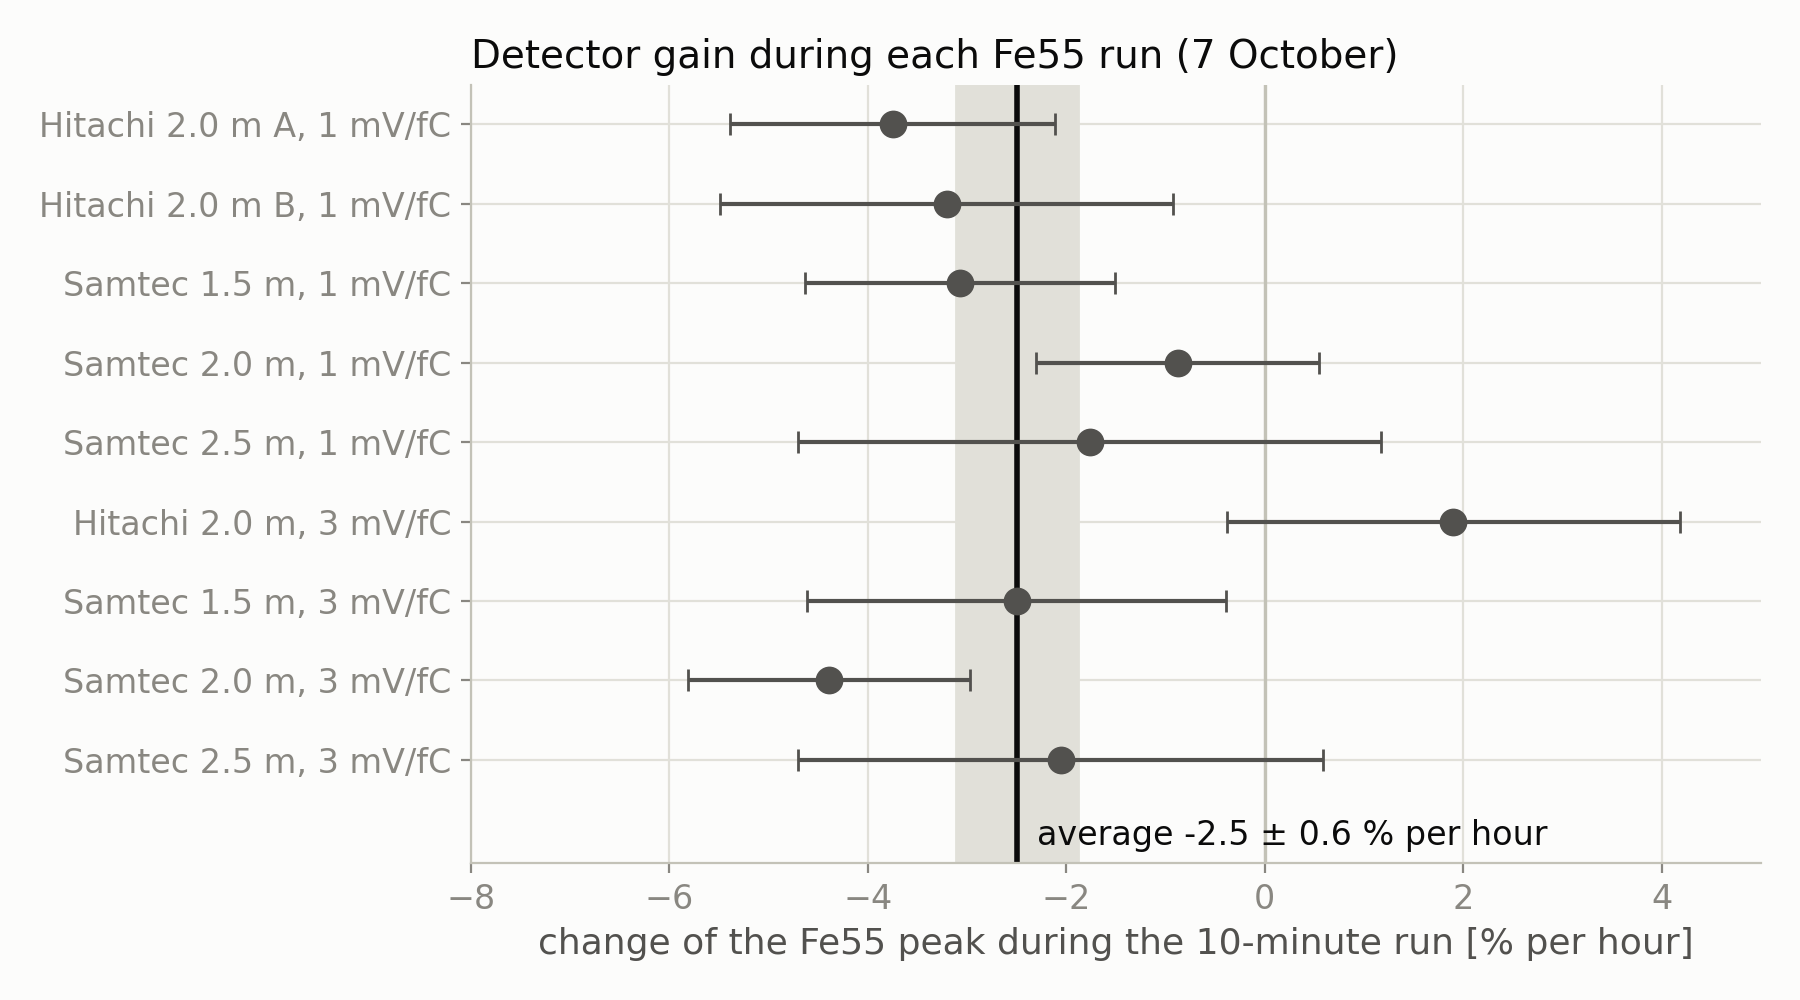
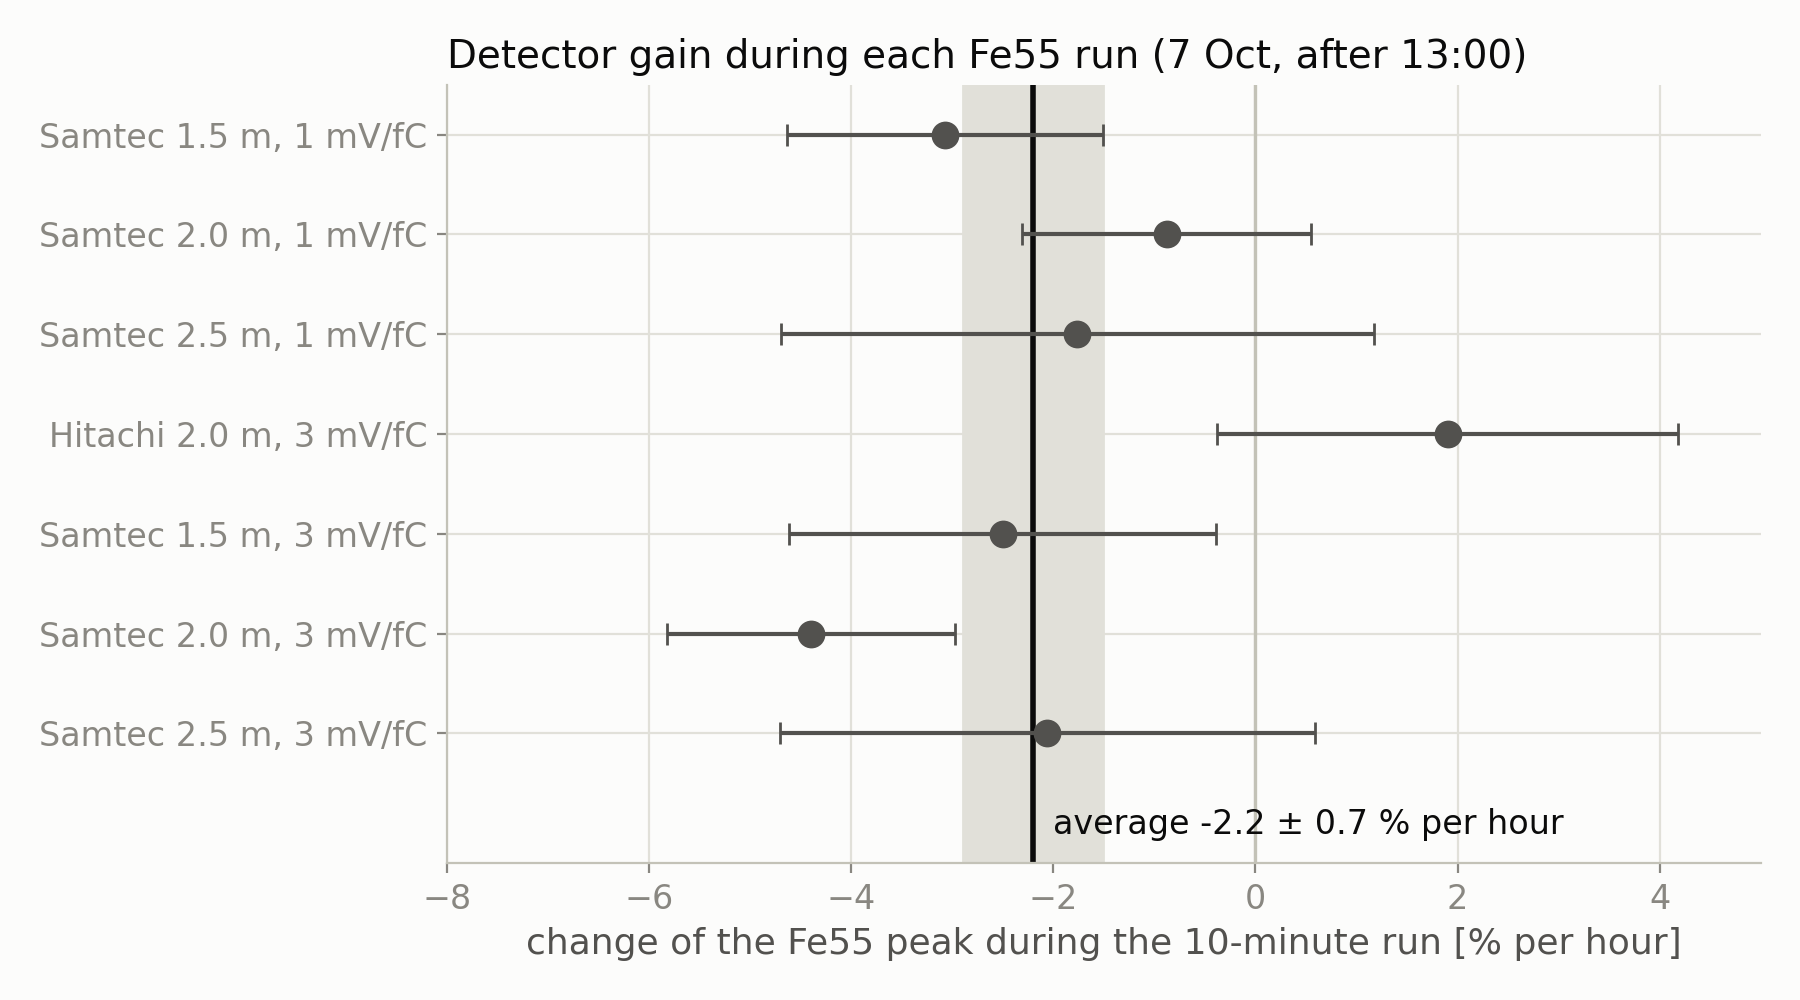
note: cable length — per-VMM Mean/RMS(ADC) and ratios (section 5c), runs after the HV-supply change only, drift −2.2 %/h

diff --git a/notes/unlisted/2026-10-07-cable-length-and-edge-channels-pulser-bench-vs-fe55.html b/notes/unlisted/2026-10-07-cable-length-and-edge-channels-pulser-bench-vs-fe55.html
@@ -52,7 +52,7 @@
         mid-connector channels (3–27, 36–60), both in photopeak (within 0.6 %) and in noise (~0.3 Hz). <strong>Why only with the external pulser:</strong> the
         neighbour-trigger hits show the external-pulser setup is 3–5× noisier than the detector at the same gain, and its edge
         channels get ~2× noisier again from 2 m on. There the noise reaches the threshold; on the detector it stays far
-        below it (section 6). A typical channel loses about 9 %/m of signal with the external pulser and 10–11 %/m with Fe55, once the
+        below it (section 6). A typical channel loses about 9 %/m of signal with the external pulser and 10–12 %/m with Fe55, once the
         Fe55 numbers are corrected for the detector gain drift measured inside each run (section 5b). The two agree:
         <strong>~10 % per metre</strong>, on every channel.</p>
       </div>
@@ -71,8 +71,8 @@
         <thead><tr><th>Total Samtec length</th><th>1.0 m</th><th>1.5 m</th><th>2.0 m</th><th>2.5 m</th><th>3.0 m*</th></tr></thead>
         <tbody>
           <tr><td>Pulser, mid-connector signal (3.3 V, /1.5 m)</td><td>1.055</td><td>1</td><td>0.951</td><td>0.910</td><td>0.864</td></tr>
-          <tr><td>Fe55, mid-connector signal (1 mV/fC, /1.5 m), gain-corrected [raw]</td><td>–</td><td>1</td><td>0.948 ± 0.007 [0.920]</td><td>0.903 ± 0.009 [0.869]</td><td>–</td></tr>
-          <tr><td>Fe55, mid-connector signal (3 mV/fC, /1.5 m), gain-corrected [raw]</td><td>–</td><td>1</td><td>0.930 ± 0.007 [0.904]</td><td>0.887 ± 0.016 [0.831]</td><td>–</td></tr>
+          <tr><td>Fe55, mid-connector signal (1 mV/fC, /1.5 m), gain-corrected [raw]</td><td>–</td><td>1</td><td>0.944 ± 0.008 [0.920]</td><td>0.899 ± 0.010 [0.869]</td><td>–</td></tr>
+          <tr><td>Fe55, mid-connector signal (3 mV/fC, /1.5 m), gain-corrected [raw]</td><td>–</td><td>1</td><td>0.927 ± 0.008 [0.904]</td><td>0.880 ± 0.017 [0.831]</td><td>–</td></tr>
           <tr><td>Pulser, edge vs mid-connector (3.3 V, /1.0 m)</td><td>1</td><td>0.995</td><td>0.986</td><td>0.975</td><td>0.980</td></tr>
           <tr><td>Fe55, edge vs mid-connector (1 mV/fC, /1.5 m)</td><td>–</td><td>1</td><td>1.003</td><td>1.003</td><td>–</td></tr>
           <tr><td>Pulser, worst edge self-trigger rate (3.3 V)</td><td>none</td><td>none</td><td>0.4 kHz</td><td>1.0 kHz</td><td>3.6 kHz</td></tr>
@@ -89,7 +89,7 @@
       </div>
       <p class="muted">* The cable type of the 3.0 m pulser runs (50 cm + 2.5 m) is not in the logbook; they belong
       to the Samtec series and are assumed Samtec. Fit slopes: pulser −8.8 / −9.2 / −9.4 %/m at 1.8 / 2.5 / 3.3 V;
-      Fe55 gain-corrected −9.7 %/m at 1 mV/fC and −11.3 %/m at 3 mV/fC (raw −13.1 and −16.9 %/m; section 5b). The 3 mV/fC runs also
+      Fe55 gain-corrected −10.1 %/m at 1 mV/fC and −12.0 %/m at 3 mV/fC (raw −13.1 and −16.9 %/m; section 5b). The 3 mV/fC runs also
       have 3–5 % saturated hits, which can bias the peak.</p>
       <div class="callout warn">
         <p><strong>Two confounds behind the length dependence.</strong></p>
@@ -99,8 +99,8 @@
             so part of it may be a different setup on the second day. Within 8 June, the self-triggering still
             grows with length (Samtec 0.4 → 1.0 → 3.6 kHz).</li>
           <li><strong>Fe55: length vs time.</strong> The Samtec runs were taken in order of increasing length through the
-            afternoon while the detector gain fell by 2.5 ± 0.6 %/h (measured inside each run, section 5b). Uncorrected,
-            that makes the longer cables look worse (13–17 %/m). Corrected, Fe55 gives 10–11 %/m, in line with the
+            afternoon while the detector gain fell by 2.2 ± 0.7 %/h (measured inside each run, section 5b). Uncorrected,
+            that makes the longer cables look worse (13–17 %/m). Corrected, Fe55 gives 10–12 %/m, in line with the
             external pulser (9 %/m). The correction assumes the drift kept the same rate between runs.</li>
         </ul>
       </div>
@@ -110,7 +110,7 @@
         <li><strong>From 2 m</strong> the external-pulser runs show edge self-triggering that grows quickly with length.
           The detector, measured up to 2.5 m, does not. Whether the detector stays quiet at 3.0 m is not measured.</li>
         <li><strong>Signal:</strong> each extra metre of Samtec costs ~10 % of the signal on every channel (9 %/m external
-          pulser, 10–11 %/m Fe55 after the gain correction), i.e. ~5 % per extra 0.5 m. The edges are not significantly worse.</li>
+          pulser, 10–12 %/m Fe55 after the gain correction), i.e. ~5 % per extra 0.5 m. The edges are not significantly worse.</li>
       </ul>
 
       <h2>Data</h2>
@@ -376,7 +376,7 @@
         <img src="2026-10-07-cable-length-and-edge-channels-pulser-bench-vs-fe55_files/mid_connector_signal_vs_length.png" alt="Mid-connector signal relative to Samtec 1.5 m vs total cable length, pulser and Fe55">
         <figcaption>Mid-connector signal, indexed to Samtec 1.5 m. Pulser Samtec: about −9.5 %/m. Fe55 Samtec here are the raw values, not
         corrected for the gain drift (section 5b): −8.0 % (1.5→2.0 m) and −5.4 % (2.0→2.5 m). For reference only (Hitachi
-        will not be used): Hitachi beats Samtec at the same length, +5–7 % with the external pulser, +4–8 % with Fe55 after
+        will not be used): Hitachi beats Samtec at the same length, +5–7 % with the external pulser, ~9 % with Fe55 at 3 mV/fC after
         the gain correction.</figcaption>
       </figure>
       <figure>
@@ -392,15 +392,17 @@
       <figure>
         <img src="2026-10-07-cable-length-and-edge-channels-pulser-bench-vs-fe55_files/gain_drift.png" alt="Slope of the Fe55 photopeak inside each 10-minute run, with the weighted average">
         <figcaption>Slope of the Fe55 photopeak inside each run, in % per hour, with its fit error. Vertical line and band:
-        weighted average, −2.5 ± 0.6 %/h.</figcaption>
+        weighted average, −2.2 ± 0.7 %/h. Only runs after the HV-supply change at 13:00.</figcaption>
       </figure>
       <ul>
-        <li><strong>The peak goes down inside 8 of the 9 runs.</strong> Combined: <strong>−2.5 ± 0.6 %/h</strong>, and the
-          runs agree with each other (χ²/ndf = 0.96).</li>
-        <li><strong>Independent check:</strong> the same Hitachi cable measured twice, 69 min apart, lost 3.6 %, i.e.
-          −3.1 %/h. With the correction the two takes agree (0.997 and 0.987 relative to Samtec 1.5 m).</li>
+        <li><strong>Only the runs after the HV-supply change</strong> (7 Oct, ~13:00) are used, i.e. the conditions of the
+          length comparison: the six Samtec runs and Hitachi 2.0 m at 3 mV/fC.</li>
+        <li><strong>The peak goes down inside 6 of the 7 runs.</strong> Combined: <strong>−2.2 ± 0.7 %/h</strong>, and the
+          runs agree with each other (χ²/ndf = 1.14).</li>
+        <li>The Hitachi cable measured twice in the morning (−3.6 % in 69 min) points the same way, but it was taken
+          before the supply change, so it is not used.</li>
         <li><strong>Correction:</strong> each length ratio is divided by (1 + rate × Δt), with Δt the time between the run
-          and the Samtec 1.5 m reference. The uncertainty of the rate gives ±0.7–1.6 % on the corrected points.</li>
+          and the Samtec 1.5 m reference. The uncertainty of the rate gives ±0.8–1.7 % on the corrected points.</li>
         <li><strong>Assumption:</strong> the drift kept the same rate between runs, where it is not measured. The cause is
           not known from these data (gas gain changes with pressure and temperature, for example).</li>
       </ul>
@@ -408,11 +410,11 @@
       <table>
         <thead><tr><th>Samtec / 1.5 m</th><th>Δt</th><th>Raw</th><th>Gain-corrected</th></tr></thead>
         <tbody>
-          <tr><td>2.0 m, 1 mV/fC</td><td>+1.2 h</td><td>0.920</td><td>0.948 ± 0.007</td></tr>
-          <tr><td>2.5 m, 1 mV/fC</td><td>+1.5 h</td><td>0.869</td><td>0.903 ± 0.009</td></tr>
-          <tr><td>2.0 m, 3 mV/fC</td><td>+1.1 h</td><td>0.904</td><td>0.930 ± 0.007</td></tr>
-          <tr><td>2.5 m, 3 mV/fC</td><td>+2.5 h</td><td>0.831</td><td>0.887 ± 0.016</td></tr>
-          <tr><td>Slope</td><td></td><td>−13.1 / −16.9 %/m</td><td><strong>−9.7 / −11.3 %/m</strong></td></tr>
+          <tr><td>2.0 m, 1 mV/fC</td><td>+1.2 h</td><td>0.920</td><td>0.944 ± 0.008</td></tr>
+          <tr><td>2.5 m, 1 mV/fC</td><td>+1.5 h</td><td>0.869</td><td>0.899 ± 0.010</td></tr>
+          <tr><td>2.0 m, 3 mV/fC</td><td>+1.1 h</td><td>0.904</td><td>0.927 ± 0.008</td></tr>
+          <tr><td>2.5 m, 3 mV/fC</td><td>+2.5 h</td><td>0.831</td><td>0.880 ± 0.017</td></tr>
+          <tr><td>Slope</td><td></td><td>−13.1 / −16.9 %/m</td><td><strong>−10.1 / −12.0 %/m</strong></td></tr>
         </tbody>
       </table>
       </div>
@@ -434,8 +436,8 @@
               But the Hitachi runs were on 8 June and the Samtec 1.5 m reference on 5 June, so day-to-day changes are mixed in.</td></tr>
           <tr><td>Fe55, Hitachi 2.0 m (A), 1 mV/fC</td><td>1.085</td><td>7 Oct 11:45</td>
             <td rowspan="3">Hitachi attenuates less, <em>and</em> these runs were taken before the Samtec 1.5 m reference
-              (15:17 at 1 mV/fC, 14:45 at 3 mV/fC) while the gain was falling. Gain-corrected (section 5b):
-              0.997, 0.987 and 1.007.</td></tr>
+              (15:17 at 1 mV/fC, 14:45 at 3 mV/fC) while the gain was falling. Only the 3 mV/fC run is after the HV-supply change;
+              gain-corrected (section 5b) it is 1.010.</td></tr>
           <tr><td>Fe55, Hitachi 2.0 m (B), 1 mV/fC</td><td>1.045</td><td>7 Oct 12:54</td></tr>
           <tr><td>Fe55, Hitachi 2.0 m, 3 mV/fC</td><td>1.027</td><td>7 Oct 13:58</td></tr>
         </tbody>
@@ -443,12 +445,71 @@
       </div>
       <p>The Fe55 Hitachi points need care. The same Hitachi cable gave 1.085, then 1.045 an hour later: the gain fell by
       3.6 % in between, with nothing changed. The three Hitachi values also drop in the order they were taken, as they get
-      closer in time to the Samtec reference (3.5 h, 2.4 h, 0.8 h before it). With the gain correction of section 5b
-      they become 0.997, 0.987 and 1.007: Hitachi 2.0 m gives about the same signal as Samtec 1.5 m, i.e. 4–8 % more than
-      Samtec 2.0 m. The external-pulser Hitachi points, which don't depend on gas gain, show Hitachi ahead by 5–7 %. This is for
+      closer in time to the Samtec reference (3.5 h, 2.4 h, 0.8 h before it). The two 1 mV/fC Hitachi runs were taken
+      before the HV-supply change at ~13:00 and are not used for conclusions. The 3 mV/fC run (after the change),
+      gain-corrected, is 1.010: Hitachi 2.0 m gives about the same signal as Samtec 1.5 m, ~9 % more than Samtec 2.0 m. The external-pulser Hitachi points, which don't depend on gas gain, show Hitachi ahead by 5–7 %. This is for
       reference only, since P2 will use Samtec.</p>
       <p>The same drift works the other way on the Samtec Fe55 points: they were taken in order 1.5 → 2.0 → 2.5 m, so a
       falling gain makes the longer cables look worse. Section 5b corrects for it.</p>
+
+      <h2>5c. Per VMM: Mean(ADC) and RMS(ADC) vs channel</h2>
+      <p>To check that the result holds on every VMM and not only in the median over VMMs, the same comparison is done
+      VMM by VMM, with the simplest quantities: the <strong>mean</strong> and the <strong>RMS</strong> (standard deviation)
+      of the ADC of all over-threshold hits of each channel. Only runs from the directory
+      <code>source_tests/cable_length</code> taken <strong>after the HV-supply change</strong> (~13:00, 7 Oct) are used,
+      so all conditions are identical: Samtec 1.5 / 2.0 / 2.5 m at 1 and 3 mV/fC, and Hitachi 2.0 m at 3 mV/fC only
+      (the 1 mV/fC Hitachi run started at 12:54). No gain-drift correction is applied in these plots.</p>
+      <p>How to read them: one panel per VMM (4–13), x = VMM channel, grey bands = connector-edge channels. In the ratio
+      plots, y = Mean (or RMS) of the channel with that cable divided by the same channel, same VMM, with Samtec 1.5 m;
+      dashed lines = median over the mid-connector channels of that VMM. Channels with fewer than 100 hits are left out.</p>
+      <figure>
+        <img src="2026-10-07-cable-length-and-edge-channels-pulser-bench-vs-fe55_files/fe55_per_vmm_mean_ratio_3mVfC.png" alt="Per-VMM ratio of Mean ADC to Samtec 1.5 m vs channel, 3 mV/fC">
+        <figcaption>Mean(ADC) ratio to Samtec 1.5 m, 3 mV/fC, per VMM.</figcaption>
+      </figure>
+      <figure>
+        <img src="2026-10-07-cable-length-and-edge-channels-pulser-bench-vs-fe55_files/fe55_per_vmm_mean_ratio_1mVfC.png" alt="Per-VMM ratio of Mean ADC to Samtec 1.5 m vs channel, 1 mV/fC">
+        <figcaption>Mean(ADC) ratio to Samtec 1.5 m, 1 mV/fC, per VMM.</figcaption>
+      </figure>
+      <div style="overflow-x:auto">
+      <table>
+        <thead><tr><th>Ratio to Samtec 1.5 m, median of mid-connector channels</th><th>Mean(ADC)</th><th>RMS(ADC)</th><th>Photopeak (section 4)</th><th>VMM-to-VMM spread of the Mean ratio</th></tr></thead>
+        <tbody>
+          <tr><td>Samtec 2.0 m, 1 mV/fC</td><td>0.94</td><td>1.00</td><td>0.92</td><td>0.3 %</td></tr>
+          <tr><td>Samtec 2.5 m, 1 mV/fC</td><td>0.90</td><td>0.98</td><td>0.87</td><td>0.4 %</td></tr>
+          <tr><td>Samtec 2.0 m, 3 mV/fC</td><td>0.92</td><td>0.92</td><td>0.90</td><td>0.4 %</td></tr>
+          <tr><td>Samtec 2.5 m, 3 mV/fC</td><td>0.85</td><td>0.87</td><td>0.83</td><td>0.5 %</td></tr>
+          <tr><td>Hitachi 2.0 m, 3 mV/fC</td><td>1.01</td><td>1.01</td><td>1.03</td><td>0.6 %</td></tr>
+        </tbody>
+      </table>
+      </div>
+      <ul>
+        <li><strong>Every VMM shows the same thing.</strong> The mid-connector ratio is the same on all ten VMMs within
+          0.3–0.6 %, and the edge channels follow their neighbours on every VMM. The median over VMMs used elsewhere in this
+          note hides nothing.</li>
+        <li><strong>Mean and RMS show less loss than the photopeak</strong> (raw, not drift-corrected, all three). Both are
+          distorted by the cuts at the two ends of the ADC range. At the low end, the threshold removes the smallest hits,
+          and removes more of them when the signal shrinks with a longer cable: that pushes the mean up and narrows the
+          spectrum, so the RMS barely changes at 1 mV/fC (the peak there is only ~250 ADC). At the high end, at 3 mV/fC,
+          5 % of the Samtec 1.5 m hits are clipped at 1023, which lowers the reference mean. The photopeak position is not
+          affected by either, which is why the rest of the note uses it.</li>
+        <li><strong>Isolated outliers are channels with few hits</strong> (pads at the border of the detector or outside the
+          source spot, a few hundred hits), where the mean comes from a handful of events.</li>
+        <li><strong>One real anomaly: VMM 10 with the 2.5 m cable.</strong> Channels 11, 13, 29, 31, 47 (and 37 at 1 mV/fC)
+          almost stop recording Fe55 hits in both 2.5 m runs: e.g. ch 11 goes from 16.8 Hz (1.5 m) and 17.5 Hz (2.0 m) to
+          0.4 Hz, the no-source level. Their Mean and RMS then come from a few hundred leftover hits, which gives the
+          large swings in the VMM 10 panels. Channel 17 instead fills with low-ADC hits at 2.5 m (6.7 Hz without source,
+          0.75 Hz with 1.5 m). This is specific to one VMM and one cable, not to the edge channels or to the length in
+          general: it looks like a few contacts of that cable/connector, worth checking before using the 2.5 m cable.</li>
+      </ul>
+      <details>
+        <summary>Absolute Mean(ADC) and RMS(ADC) per VMM, and the RMS ratios</summary>
+        <figure><img src="2026-10-07-cable-length-and-edge-channels-pulser-bench-vs-fe55_files/fe55_per_vmm_mean_3mVfC.png" alt="Per-VMM Mean ADC vs channel, 3 mV/fC"><figcaption>Mean(ADC), 3 mV/fC.</figcaption></figure>
+        <figure><img src="2026-10-07-cable-length-and-edge-channels-pulser-bench-vs-fe55_files/fe55_per_vmm_rms_3mVfC.png" alt="Per-VMM RMS ADC vs channel, 3 mV/fC"><figcaption>RMS(ADC), 3 mV/fC.</figcaption></figure>
+        <figure><img src="2026-10-07-cable-length-and-edge-channels-pulser-bench-vs-fe55_files/fe55_per_vmm_rms_ratio_3mVfC.png" alt="Per-VMM RMS ratio to Samtec 1.5 m, 3 mV/fC"><figcaption>RMS(ADC) ratio to Samtec 1.5 m, 3 mV/fC. The channel-to-channel zigzag is statistical: even and odd channels agree to 1 %.</figcaption></figure>
+        <figure><img src="2026-10-07-cable-length-and-edge-channels-pulser-bench-vs-fe55_files/fe55_per_vmm_mean_1mVfC.png" alt="Per-VMM Mean ADC vs channel, 1 mV/fC"><figcaption>Mean(ADC), 1 mV/fC.</figcaption></figure>
+        <figure><img src="2026-10-07-cable-length-and-edge-channels-pulser-bench-vs-fe55_files/fe55_per_vmm_rms_1mVfC.png" alt="Per-VMM RMS ADC vs channel, 1 mV/fC"><figcaption>RMS(ADC), 1 mV/fC.</figcaption></figure>
+        <figure><img src="2026-10-07-cable-length-and-edge-channels-pulser-bench-vs-fe55_files/fe55_per_vmm_rms_ratio_1mVfC.png" alt="Per-VMM RMS ratio to Samtec 1.5 m, 1 mV/fC"><figcaption>RMS(ADC) ratio to Samtec 1.5 m, 1 mV/fC.</figcaption></figure>
+      </details>
 
       <h2>6. Noise: neighbour-trigger hits, external pulser vs detector</h2>
       <p>Both campaigns ran with the neighbour trigger (SNG) on. When a channel fires, its neighbours are read out
@@ -531,7 +592,7 @@
       <table>
         <thead><tr><th></th><th>Pulser</th><th>Fe55</th></tr></thead>
         <tbody>
-          <tr><td>Typical-channel loss per metre (Samtec)</td><td>~9 %/m</td><td>10–11 %/m gain-corrected (13–17 %/m raw)</td></tr>
+          <tr><td>Typical-channel loss per metre (Samtec)</td><td>~9 %/m</td><td>10–12 %/m gain-corrected (13–17 %/m raw)</td></tr>
           <tr><td>Noise spread at 3 mV/fC, mid-connector / edge</td><td>11–22 / up to 45 ADC, grows with length</td><td>~4 / ~4 ADC, flat</td></tr>
           <tr><td>Hitachi vs Samtec (reference only)</td><td>Hitachi better</td><td>Hitachi better</td></tr>
           <tr><td>Edge channels lose more signal with length (Samtec)</td><td><strong>≤ 2.5 %</strong> at 3 m (section 2)</td><td><strong>No</strong>, &lt; 0.6 % at 2.5 m (section 4)</td></tr>

diff --git a/notes/hub-all-7c1e9a4d.html b/notes/hub-all-7c1e9a4d.html
@@ -57,7 +57,7 @@
           <p class="note-desc">The pulser edge-channel &#x27;breakdown&#x27; on long off-detector cables is self-triggering noise, not signal loss; no edge effect with Fe55 on the P2 detector</p>
           <div class="meta-row small">
             <span class="pill">Detector R&amp;D</span><span class="pill" style="background:#fde8e8;color:#b42318">unlisted</span><span class="pill gray">VMM</span><span class="pill gray">cables</span><span class="pill gray">P2</span><span class="pill gray">Fe55</span><span class="pill gray">pulser</span><span class="pill gray">hybrid</span>
-            <span class="faint">unlisted/2026-10-07-cable-length-and-edge-channels-pulser-bench-vs-fe55.html · 50.5 kB</span>
+            <span class="faint">unlisted/2026-10-07-cable-length-and-edge-channels-pulser-bench-vs-fe55.html · 56.8 kB</span>
           </div>
         </div>
         <time class="note-date" datetime="2026-10-07">2026-10-07<span class="faint small"> · updated 2026-10-08</span></time>
